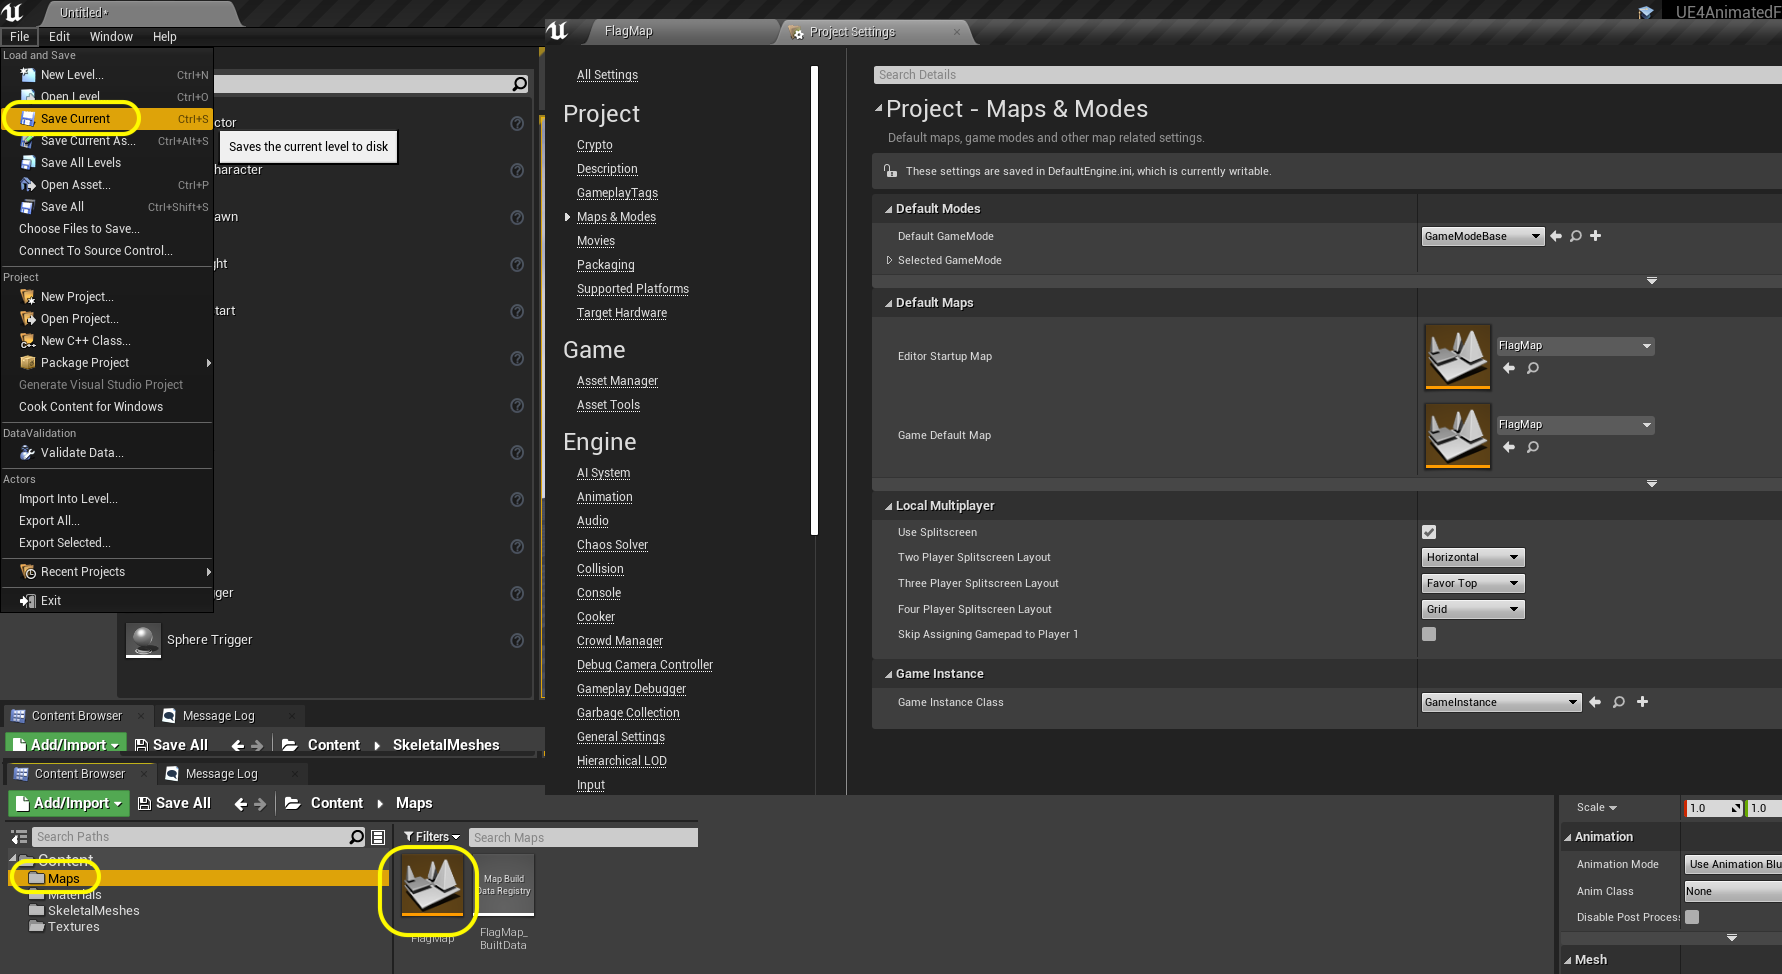
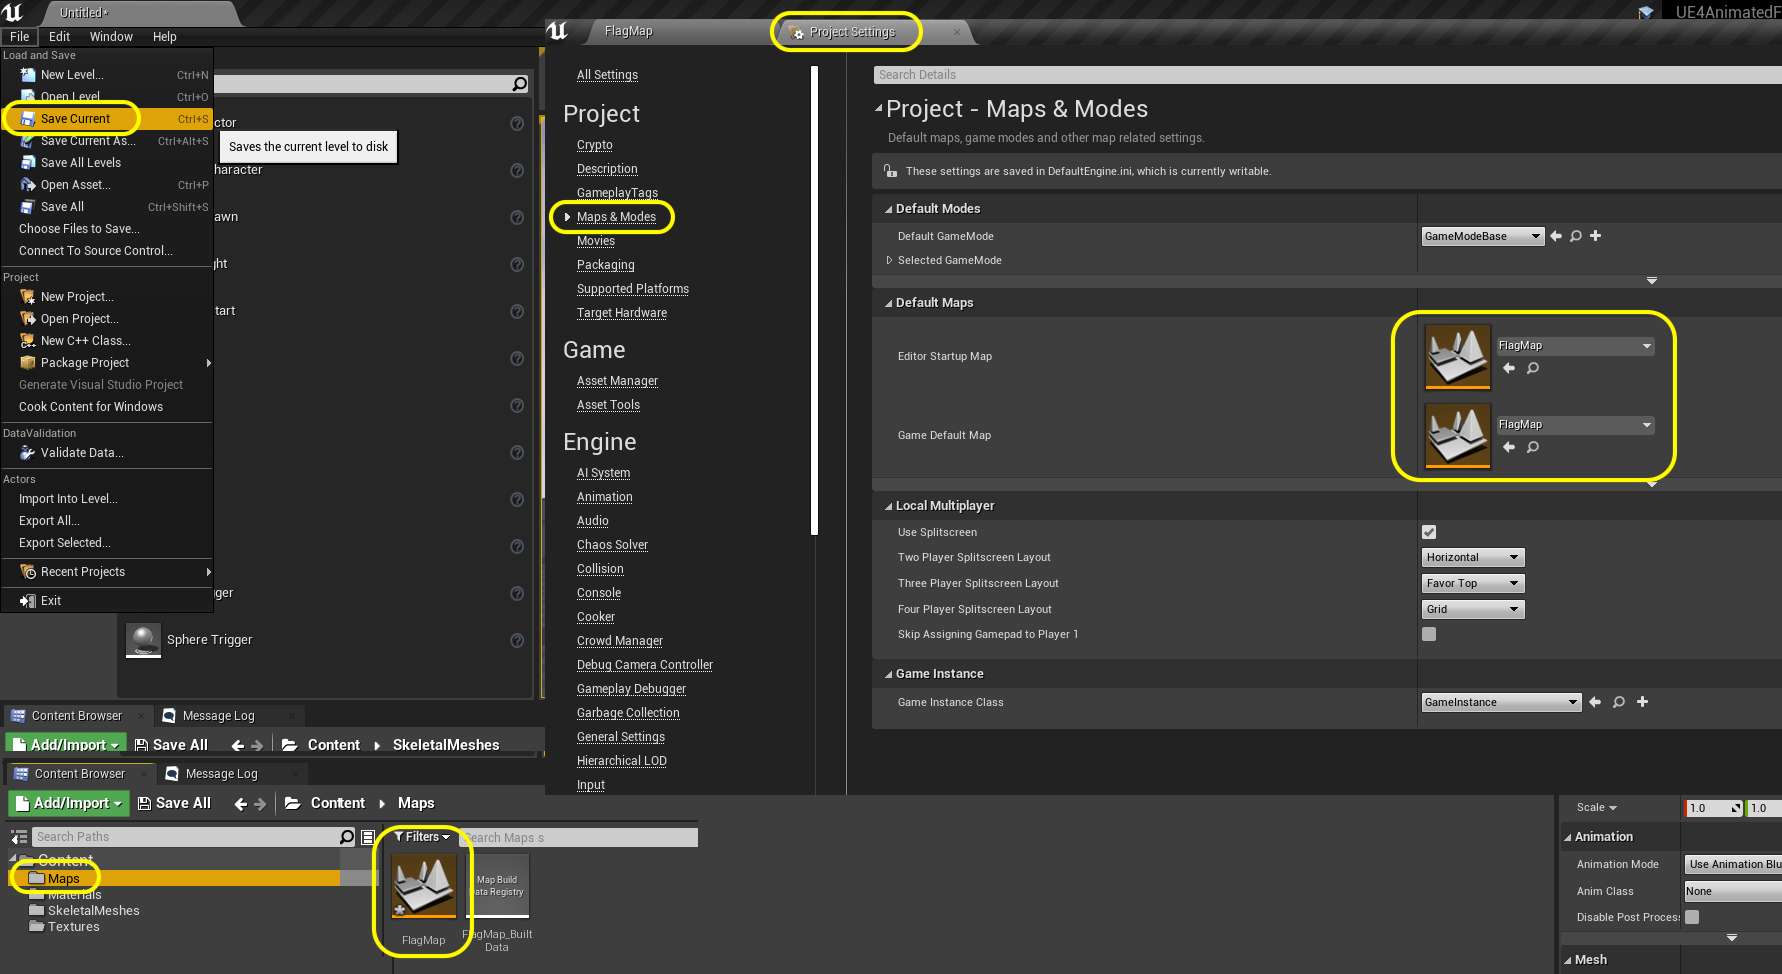
Update making flag

diff --git a/model-unreal/README.md b/model-unreal/README.md
@@ -183,13 +183,11 @@ Lets add a **Basic | Cylinder** to the level and call it `Flag Pole`.  Change th
 
 ##### `Step 21.`\|`ITA`| :large_blue_diamond: :large_blue_diamond: :small_blue_diamond:
 
+Add a folder called **Maps**. Press **File | Save Current** and save the room and call it `FlagMap`.
 
+Open up **Project Settings** and select **Maps and Modes**.  Change the default room at load to **FlagMap**.
 
-![alt_text](images/nameRoom.png)
-
-<img src="https://via.placeholder.com/500x2/45D7CA/45D7CA" alt="drawing" height="2px" alt = ""/>
-
-##### `Step 22.`\|`ITA`| :large_blue_diamond: :large_blue_diamond: :small_blue_diamond: 
+![save room and make default](images/nameRoom.png)
 
 
 ___
